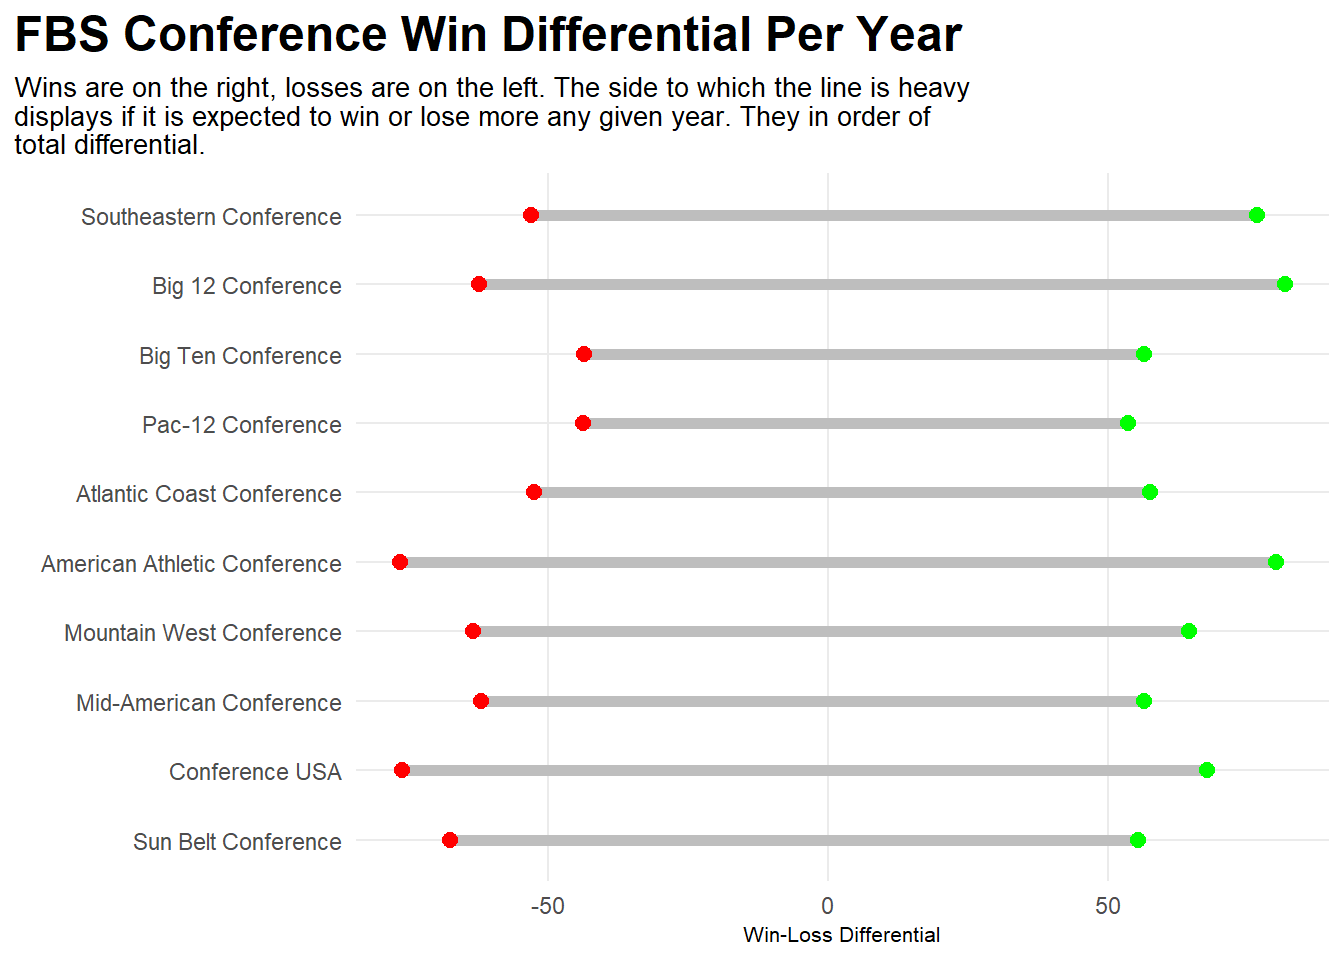
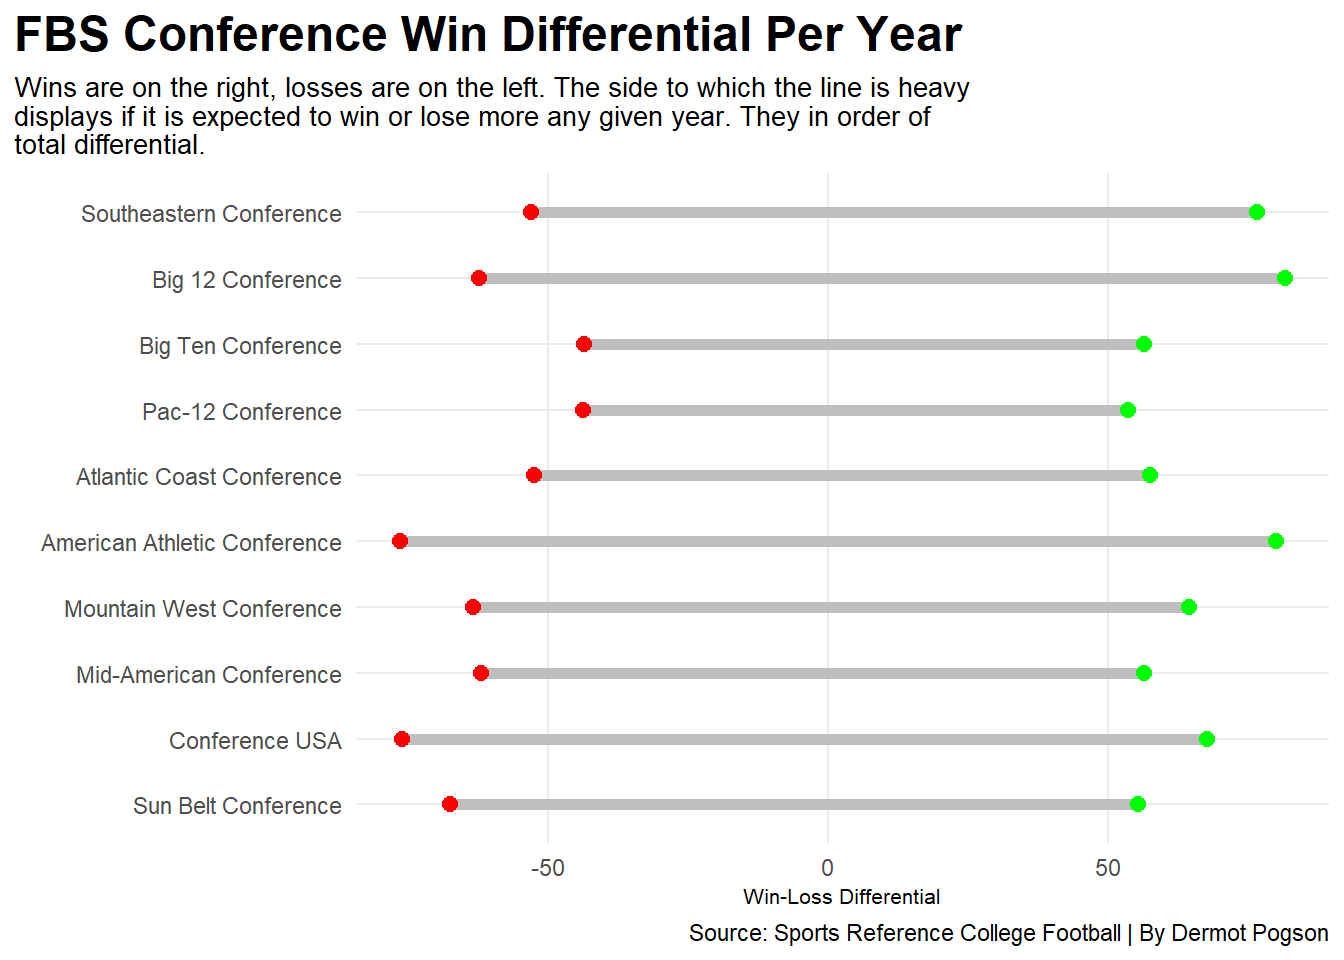
mac10

diff --git a/posts/meet-the-mac/meet-the-mac.html b/posts/meet-the-mac/meet-the-mac.html
@@ -391,22 +391,28 @@ pre > code.sourceCode > span > a:first-child::before { text-decoration: underlin
 <span id="cb1-202"><a href="#cb1-202" aria-hidden="true" tabindex="-1"></a>  <span class="fu">labs</span>(</span>
 <span id="cb1-203"><a href="#cb1-203" aria-hidden="true" tabindex="-1"></a>    <span class="at">title =</span> <span class="st">"FBS Conference Win Differential Per Year"</span>,</span>
 <span id="cb1-204"><a href="#cb1-204" aria-hidden="true" tabindex="-1"></a>    <span class="at">subtitle =</span> <span class="st">"Wins are on the right, losses are on the left. The side to which the line is heavy </span><span class="sc">\n</span><span class="st">displays if it is expected to win or lose more any given year. They in order of </span><span class="sc">\n</span><span class="st">total differential."</span>,</span>
-<span id="cb1-205"><a href="#cb1-205" aria-hidden="true" tabindex="-1"></a>    <span class="at">x =</span> <span class="st">"Win-Loss Differential"</span>,</span>
-<span id="cb1-206"><a href="#cb1-206" aria-hidden="true" tabindex="-1"></a>    <span class="at">y =</span> <span class="st">""</span>,</span>
-<span id="cb1-207"><a href="#cb1-207" aria-hidden="true" tabindex="-1"></a>  <span class="at">plot.title.position=</span><span class="st">"plot"</span>)<span class="sc">+</span></span>
-<span id="cb1-208"><a href="#cb1-208" aria-hidden="true" tabindex="-1"></a>  <span class="fu">theme_minimal</span>()<span class="sc">+</span></span>
-<span id="cb1-209"><a href="#cb1-209" aria-hidden="true" tabindex="-1"></a>  <span class="fu">theme</span>(</span>
-<span id="cb1-210"><a href="#cb1-210" aria-hidden="true" tabindex="-1"></a>    <span class="at">plot.title =</span> <span class="fu">element_text</span>(<span class="at">size =</span> <span class="dv">18</span>, <span class="at">face =</span> <span class="st">"bold"</span>),</span>
-<span id="cb1-211"><a href="#cb1-211" aria-hidden="true" tabindex="-1"></a>    <span class="at">plot.title.position=</span><span class="st">"plot"</span>,</span>
-<span id="cb1-212"><a href="#cb1-212" aria-hidden="true" tabindex="-1"></a>    <span class="at">axis.title =</span> <span class="fu">element_text</span>(<span class="at">size =</span> <span class="dv">8</span>), </span>
-<span id="cb1-213"><a href="#cb1-213" aria-hidden="true" tabindex="-1"></a>    <span class="at">plot.subtitle =</span> <span class="fu">element_text</span>(<span class="at">size=</span><span class="dv">10</span>), </span>
-<span id="cb1-214"><a href="#cb1-214" aria-hidden="true" tabindex="-1"></a>    <span class="at">panel.grid.minor =</span> <span class="fu">element_blank</span>())</span></code><button title="Copy to Clipboard" class="code-copy-button"><i class="bi"></i></button></pre></div>
+<span id="cb1-205"><a href="#cb1-205" aria-hidden="true" tabindex="-1"></a>    <span class="at">caption=</span><span class="st">"Source: Sports Reference College Football | By Dermot Pogson"</span>,</span>
+<span id="cb1-206"><a href="#cb1-206" aria-hidden="true" tabindex="-1"></a>    <span class="at">x =</span> <span class="st">"Win-Loss Differential"</span>,</span>
+<span id="cb1-207"><a href="#cb1-207" aria-hidden="true" tabindex="-1"></a>    <span class="at">y =</span> <span class="st">""</span>,</span>
+<span id="cb1-208"><a href="#cb1-208" aria-hidden="true" tabindex="-1"></a>  <span class="at">plot.title.position=</span><span class="st">"plot"</span>)<span class="sc">+</span></span>
+<span id="cb1-209"><a href="#cb1-209" aria-hidden="true" tabindex="-1"></a>  <span class="fu">theme_minimal</span>()<span class="sc">+</span></span>
+<span id="cb1-210"><a href="#cb1-210" aria-hidden="true" tabindex="-1"></a>  <span class="fu">theme</span>(</span>
+<span id="cb1-211"><a href="#cb1-211" aria-hidden="true" tabindex="-1"></a>    <span class="at">plot.title =</span> <span class="fu">element_text</span>(<span class="at">size =</span> <span class="dv">18</span>, <span class="at">face =</span> <span class="st">"bold"</span>),</span>
+<span id="cb1-212"><a href="#cb1-212" aria-hidden="true" tabindex="-1"></a>    <span class="at">plot.title.position=</span><span class="st">"plot"</span>,</span>
+<span id="cb1-213"><a href="#cb1-213" aria-hidden="true" tabindex="-1"></a>    <span class="at">axis.title =</span> <span class="fu">element_text</span>(<span class="at">size =</span> <span class="dv">8</span>), </span>
+<span id="cb1-214"><a href="#cb1-214" aria-hidden="true" tabindex="-1"></a>    <span class="at">plot.subtitle =</span> <span class="fu">element_text</span>(<span class="at">size=</span><span class="dv">10</span>), </span>
+<span id="cb1-215"><a href="#cb1-215" aria-hidden="true" tabindex="-1"></a>    <span class="at">panel.grid.minor =</span> <span class="fu">element_blank</span>())</span></code><button title="Copy to Clipboard" class="code-copy-button"><i class="bi"></i></button></pre></div>
 </details>
 <div class="cell-output-display">
 <p><img src="meet-the-mac_files/figure-html/unnamed-chunk-1-1.png" class="img-fluid" width="672"></p>
 </div>
 </div>
-<p>This graph tells us a lot of things, but I would like to highlight 3 of them. 1) The MAC has a lot lower win differential than the Power 5 Conferences. It has a -5.5 game differential, meaning as a conference they lose around 5 and a half games per year more than they win. This is likely why you probably don’t follow them too closely and may be a reason many casual football fans count them out. This, however is in truth a very misleading statistic. Many larger programs like to use MAC teams as tune up games because they are smaller institutions that need the money. When you recognize that the over funded monster conferences at the top are working with a much better hand and refuse to let it sway your opinion on the validity of any given program, you begin the journey of opening your mind to what football is actually supposed to be all about. This leans into the second point to consider: 2) MAC teams play games that they are not expected to win. None of this “oh we gotta protect our record for the post season” whiner crock of bull. The MAC represents the true essence of football. You can shove your hyper commercialized Power 5 teams that play at most 5 games they care about in any given year. Every week is a battle to the death in the MAC and, as their differential shows, somebody has to lose. But that only makes the glory of victory even sweeter. On any given Saturday, any given team could squeak out a win. When every week is a dogfight, you get something even better than dominance: 3) Parity. The greatest word in sports. This alludes to the possibility of teams having a better chance at beating one another. If the conference is losing as a whole, surely the teams themselves must be losing also, making the odds much more favorable that whatever opponent you are facing in a mac conference game has lost to another team at some point this season. The balance of strengths and weaknesses creates a more strategic game relying on learning from mistakes, not just winning all the time or losing all the time.</p>
+<p>This graph tells us a lot of things, but I would like to highlight 3 of them.</p>
+<ol type="1">
+<li><p>The MAC has a lot lower win differential than the Power 5 Conferences. It has a -5.5 game differential, meaning as a conference they lose around 5 and a half games per year more than they win. This is likely why you probably don’t follow them too closely and may be a reason many casual football fans count them out. This, however is in truth a very misleading statistic. Many larger programs like to use MAC teams as tune up games because they are smaller institutions that need the money. When you recognize that the over funded monster conferences at the top are working with a much better hand and refuse to let it sway your opinion on the validity of any given program, you begin the journey of opening your mind to what football is actually supposed to be all about. This leans into the second point to consider:</p></li>
+<li><p>MAC teams play games that they are not expected to win. None of this “oh we gotta protect our record for the post season” whiner crock of bull. The MAC represents the true essence of football. You can shove your hyper commercialized Power 5 teams that play at most 5 games they care about in any given year. Every week is a battle to the death in the MAC and, as their differential shows, somebody has to lose. But that only makes the glory of victory even sweeter. On any given Saturday, any given team could squeak out a win. When every week is a dogfight, you get something even better than dominance:</p></li>
+<li><p>Parity. The greatest word in sports. This alludes to the possibility of teams having a better chance at beating one another. If the conference is losing as a whole, surely the teams themselves must be losing also, making the odds much more favorable that whatever opponent you are facing in a mac conference game has lost to another team at some point this season. The balance of strengths and weaknesses creates a more strategic game relying on learning from mistakes, not just winning all the time or losing all the time.</p></li>
+</ol>
 <p>Let’s focus on that last part for a second. Parity is a major selling point in the MAC. Why don’t we take a look at how the MAC shakes up relative to larger conferences like the SEC or Big 10.</p>
 <div class="cell">
 <details>
@@ -429,16 +435,17 @@ pre > code.sourceCode > span > a:first-child::before { text-decoration: underlin
 <span id="cb2-16"><a href="#cb2-16" aria-hidden="true" tabindex="-1"></a><span class="fu">labs</span>(</span>
 <span id="cb2-17"><a href="#cb2-17" aria-hidden="true" tabindex="-1"></a>    <span class="at">title =</span> <span class="st">"Young and Even: Parity in the MAC"</span>,</span>
 <span id="cb2-18"><a href="#cb2-18" aria-hidden="true" tabindex="-1"></a>    <span class="at">subtitle =</span> <span class="st">"All-time conference win percentage vs total conference win qantity. Programs near the middle have experienced more </span><span class="sc">\n</span><span class="st">parity than teams near the edges. Here, MAC schools are compared to the SEC and Big 10."</span>,</span>
-<span id="cb2-19"><a href="#cb2-19" aria-hidden="true" tabindex="-1"></a>    <span class="at">x =</span> <span class="st">"All-time Conference Win %"</span>,</span>
-<span id="cb2-20"><a href="#cb2-20" aria-hidden="true" tabindex="-1"></a>    <span class="at">y =</span> <span class="st">"Total Conference Wins"</span>,</span>
-<span id="cb2-21"><a href="#cb2-21" aria-hidden="true" tabindex="-1"></a>  <span class="at">plot.title.position=</span><span class="st">"plot"</span>)<span class="sc">+</span></span>
-<span id="cb2-22"><a href="#cb2-22" aria-hidden="true" tabindex="-1"></a>  <span class="fu">theme_minimal</span>()<span class="sc">+</span></span>
-<span id="cb2-23"><a href="#cb2-23" aria-hidden="true" tabindex="-1"></a>  <span class="fu">theme</span>(</span>
-<span id="cb2-24"><a href="#cb2-24" aria-hidden="true" tabindex="-1"></a>    <span class="at">plot.title =</span> <span class="fu">element_text</span>(<span class="at">size =</span> <span class="dv">18</span>, <span class="at">face =</span> <span class="st">"bold"</span>),</span>
-<span id="cb2-25"><a href="#cb2-25" aria-hidden="true" tabindex="-1"></a>    <span class="at">plot.title.position=</span><span class="st">"plot"</span>,</span>
-<span id="cb2-26"><a href="#cb2-26" aria-hidden="true" tabindex="-1"></a>    <span class="at">axis.title =</span> <span class="fu">element_text</span>(<span class="at">size =</span> <span class="dv">8</span>), </span>
-<span id="cb2-27"><a href="#cb2-27" aria-hidden="true" tabindex="-1"></a>    <span class="at">plot.subtitle =</span> <span class="fu">element_text</span>(<span class="at">size=</span><span class="dv">10</span>), </span>
-<span id="cb2-28"><a href="#cb2-28" aria-hidden="true" tabindex="-1"></a>    <span class="at">panel.grid.minor =</span> <span class="fu">element_blank</span>())</span></code><button title="Copy to Clipboard" class="code-copy-button"><i class="bi"></i></button></pre></div>
+<span id="cb2-19"><a href="#cb2-19" aria-hidden="true" tabindex="-1"></a>    <span class="at">caption=</span><span class="st">"Source: Sports Reference College Football | By Dermot Pogson"</span>,</span>
+<span id="cb2-20"><a href="#cb2-20" aria-hidden="true" tabindex="-1"></a>    <span class="at">x =</span> <span class="st">"All-time Conference Win %"</span>,</span>
+<span id="cb2-21"><a href="#cb2-21" aria-hidden="true" tabindex="-1"></a>    <span class="at">y =</span> <span class="st">"Total Conference Wins"</span>,</span>
+<span id="cb2-22"><a href="#cb2-22" aria-hidden="true" tabindex="-1"></a>  <span class="at">plot.title.position=</span><span class="st">"plot"</span>)<span class="sc">+</span></span>
+<span id="cb2-23"><a href="#cb2-23" aria-hidden="true" tabindex="-1"></a>  <span class="fu">theme_minimal</span>()<span class="sc">+</span></span>
+<span id="cb2-24"><a href="#cb2-24" aria-hidden="true" tabindex="-1"></a>  <span class="fu">theme</span>(</span>
+<span id="cb2-25"><a href="#cb2-25" aria-hidden="true" tabindex="-1"></a>    <span class="at">plot.title =</span> <span class="fu">element_text</span>(<span class="at">size =</span> <span class="dv">18</span>, <span class="at">face =</span> <span class="st">"bold"</span>),</span>
+<span id="cb2-26"><a href="#cb2-26" aria-hidden="true" tabindex="-1"></a>    <span class="at">plot.title.position=</span><span class="st">"plot"</span>,</span>
+<span id="cb2-27"><a href="#cb2-27" aria-hidden="true" tabindex="-1"></a>    <span class="at">axis.title =</span> <span class="fu">element_text</span>(<span class="at">size =</span> <span class="dv">8</span>), </span>
+<span id="cb2-28"><a href="#cb2-28" aria-hidden="true" tabindex="-1"></a>    <span class="at">plot.subtitle =</span> <span class="fu">element_text</span>(<span class="at">size=</span><span class="dv">10</span>), </span>
+<span id="cb2-29"><a href="#cb2-29" aria-hidden="true" tabindex="-1"></a>    <span class="at">panel.grid.minor =</span> <span class="fu">element_blank</span>())</span></code><button title="Copy to Clipboard" class="code-copy-button"><i class="bi"></i></button></pre></div>
 </details>
 <div class="cell-output-display">
 <p><img src="meet-the-mac_files/figure-html/unnamed-chunk-2-1.png" class="img-fluid" width="672"></p>
@@ -463,16 +470,17 @@ pre > code.sourceCode > span > a:first-child::before { text-decoration: underlin
 <span id="cb3-9"><a href="#cb3-9" aria-hidden="true" tabindex="-1"></a>  <span class="fu">labs</span>(</span>
 <span id="cb3-10"><a href="#cb3-10" aria-hidden="true" tabindex="-1"></a>    <span class="at">title =</span> <span class="st">"50th Season Comparison: MAC vs SEC and Big 10"</span>,</span>
 <span id="cb3-11"><a href="#cb3-11" aria-hidden="true" tabindex="-1"></a>    <span class="at">subtitle =</span> <span class="st">"This graph compares the performance of several programs during the 50th season of their respective leagues. It uses </span><span class="sc">\n</span><span class="st">Season Conference Wins and Offensive Points per Game to depict the generalized success relative to the mean of </span><span class="sc">\n</span><span class="st">all clubs across the three conferences."</span>,</span>
-<span id="cb3-12"><a href="#cb3-12" aria-hidden="true" tabindex="-1"></a>    <span class="at">x =</span> <span class="st">"50th Season Conference Win %"</span>,</span>
-<span id="cb3-13"><a href="#cb3-13" aria-hidden="true" tabindex="-1"></a>    <span class="at">y =</span> <span class="st">"Points Per Game"</span>,</span>
-<span id="cb3-14"><a href="#cb3-14" aria-hidden="true" tabindex="-1"></a>  <span class="at">plot.title.position=</span><span class="st">"plot"</span>)<span class="sc">+</span></span>
-<span id="cb3-15"><a href="#cb3-15" aria-hidden="true" tabindex="-1"></a>  <span class="fu">theme_minimal</span>()<span class="sc">+</span></span>
-<span id="cb3-16"><a href="#cb3-16" aria-hidden="true" tabindex="-1"></a>  <span class="fu">theme</span>(</span>
-<span id="cb3-17"><a href="#cb3-17" aria-hidden="true" tabindex="-1"></a>    <span class="at">plot.title =</span> <span class="fu">element_text</span>(<span class="at">size =</span> <span class="dv">18</span>, <span class="at">face =</span> <span class="st">"bold"</span>),</span>
-<span id="cb3-18"><a href="#cb3-18" aria-hidden="true" tabindex="-1"></a>    <span class="at">plot.title.position=</span><span class="st">"plot"</span>,</span>
-<span id="cb3-19"><a href="#cb3-19" aria-hidden="true" tabindex="-1"></a>    <span class="at">axis.title =</span> <span class="fu">element_text</span>(<span class="at">size =</span> <span class="dv">8</span>), </span>
-<span id="cb3-20"><a href="#cb3-20" aria-hidden="true" tabindex="-1"></a>    <span class="at">plot.subtitle =</span> <span class="fu">element_text</span>(<span class="at">size=</span><span class="dv">10</span>), </span>
-<span id="cb3-21"><a href="#cb3-21" aria-hidden="true" tabindex="-1"></a>    <span class="at">panel.grid.minor =</span> <span class="fu">element_blank</span>()) </span></code><button title="Copy to Clipboard" class="code-copy-button"><i class="bi"></i></button></pre></div>
+<span id="cb3-12"><a href="#cb3-12" aria-hidden="true" tabindex="-1"></a>    <span class="at">caption=</span><span class="st">"Source: Sports Reference College Football | By Dermot Pogson"</span>,</span>
+<span id="cb3-13"><a href="#cb3-13" aria-hidden="true" tabindex="-1"></a>    <span class="at">x =</span> <span class="st">"50th Season Conference Win %"</span>,</span>
+<span id="cb3-14"><a href="#cb3-14" aria-hidden="true" tabindex="-1"></a>    <span class="at">y =</span> <span class="st">"Points Per Game"</span>,</span>
+<span id="cb3-15"><a href="#cb3-15" aria-hidden="true" tabindex="-1"></a>  <span class="at">plot.title.position=</span><span class="st">"plot"</span>)<span class="sc">+</span></span>
+<span id="cb3-16"><a href="#cb3-16" aria-hidden="true" tabindex="-1"></a>  <span class="fu">theme_minimal</span>()<span class="sc">+</span></span>
+<span id="cb3-17"><a href="#cb3-17" aria-hidden="true" tabindex="-1"></a>  <span class="fu">theme</span>(</span>
+<span id="cb3-18"><a href="#cb3-18" aria-hidden="true" tabindex="-1"></a>    <span class="at">plot.title =</span> <span class="fu">element_text</span>(<span class="at">size =</span> <span class="dv">18</span>, <span class="at">face =</span> <span class="st">"bold"</span>),</span>
+<span id="cb3-19"><a href="#cb3-19" aria-hidden="true" tabindex="-1"></a>    <span class="at">plot.title.position=</span><span class="st">"plot"</span>,</span>
+<span id="cb3-20"><a href="#cb3-20" aria-hidden="true" tabindex="-1"></a>    <span class="at">axis.title =</span> <span class="fu">element_text</span>(<span class="at">size =</span> <span class="dv">8</span>), </span>
+<span id="cb3-21"><a href="#cb3-21" aria-hidden="true" tabindex="-1"></a>    <span class="at">plot.subtitle =</span> <span class="fu">element_text</span>(<span class="at">size=</span><span class="dv">10</span>), </span>
+<span id="cb3-22"><a href="#cb3-22" aria-hidden="true" tabindex="-1"></a>    <span class="at">panel.grid.minor =</span> <span class="fu">element_blank</span>()) </span></code><button title="Copy to Clipboard" class="code-copy-button"><i class="bi"></i></button></pre></div>
 </details>
 <div class="cell-output-display">
 <p><img src="meet-the-mac_files/figure-html/unnamed-chunk-3-1.png" class="img-fluid" width="672"></p>

diff --git a/index.html b/index.html
@@ -170,7 +170,7 @@ ul.task-list li input[type="checkbox"] {
 
 <div class="quarto-listing quarto-listing-container-default" id="listing-listing">
 <div class="list quarto-listing-default">
-<div class="quarto-post image-right" data-index="0" data-categories="R,Sports,data" data-listing-date-sort="1701583200000" data-listing-file-modified-sort="1701595083113" data-listing-date-modified-sort="NaN" data-listing-reading-time-sort="12">
+<div class="quarto-post image-right" data-index="0" data-categories="R,Sports,data" data-listing-date-sort="1701583200000" data-listing-file-modified-sort="1701708244358" data-listing-date-modified-sort="NaN" data-listing-reading-time-sort="12">
 <div class="thumbnail">
 <p><a href="./posts/meet-the-mac/meet-the-mac.html"> <img src="./posts/meet-the-mac/Thumbnail.png" class="thumbnail-image"> </a></p>
 </div>
